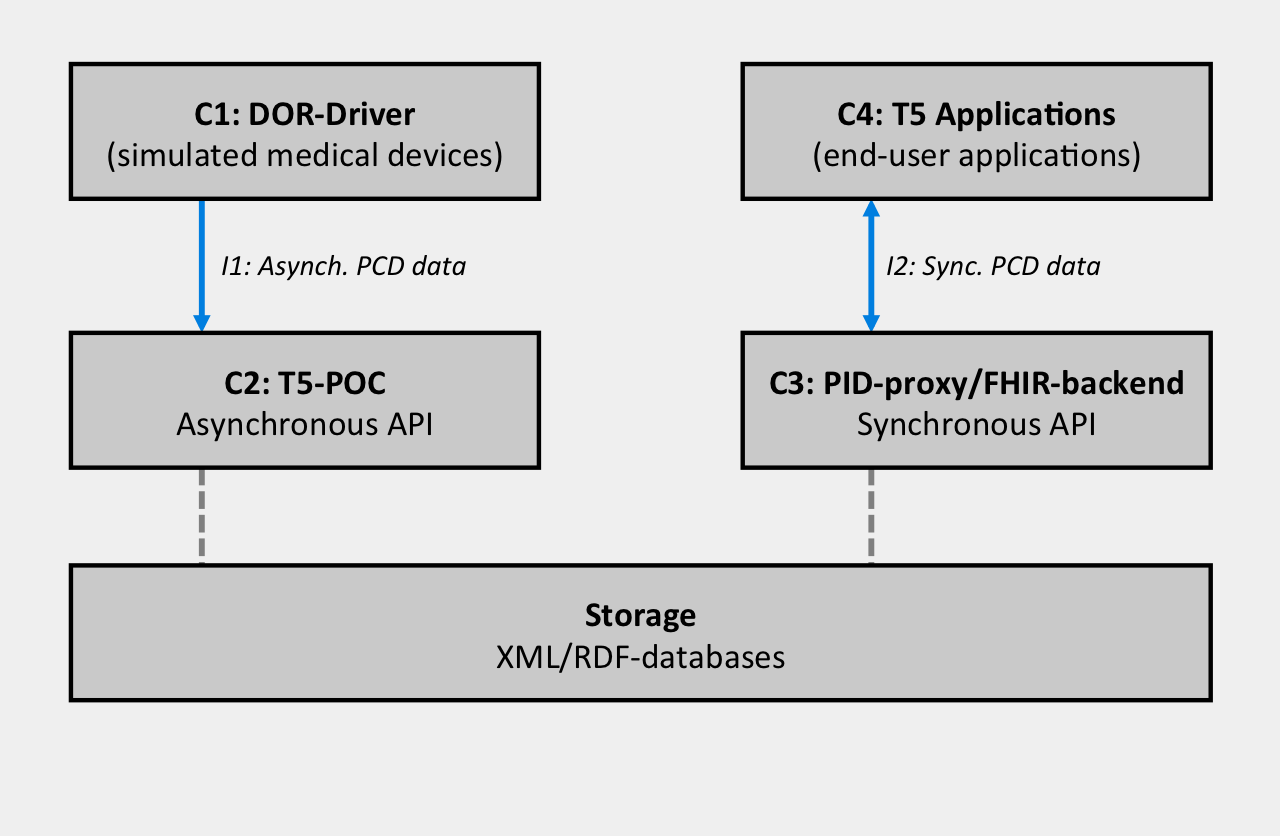
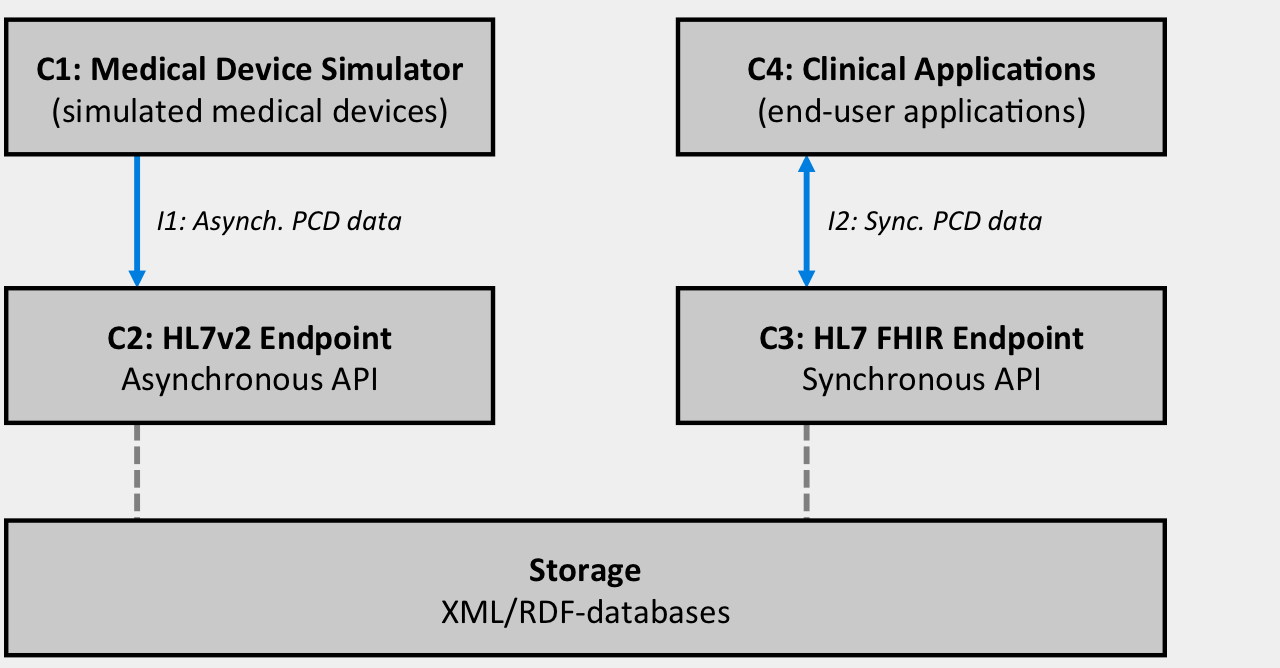
IHELAB-248 content & stylesheet updates

diff --git a/stylesheets/stylesheet.css b/stylesheets/stylesheet.css
@@ -225,7 +225,7 @@ strong {
 img {
   position: relative;
   margin: 0 auto;
-  max-width: 739px;
+  max-width: 640px;
   padding: 5px;
   margin: 10px 0 10px 0;
   border: 1px solid #ebebeb;
@@ -412,7 +412,7 @@ Full-Width Styles
 #project_title {
   margin: 0;
   color: #fff;
-  font-size: 38px;
+  font-size: 36px;
   font-weight: 700;
   text-shadow: #111 0px 0px 10px;
 }

diff --git a/_includes/header.html b/_includes/header.html
@@ -2,7 +2,7 @@
 	<header class="inner">
 		<!--<a id="forkme_banner" href="https://github.com/ihelab">View on GitHub</a>!-->
 
-		<h1 id="project_title">Karolinska PCD <br> Interopability Lab</h1>
+		<h1 id="project_title">SLL Medical Device <br> Integration Lab</h1>
 		<h2 id="project_tagline"></h2>
 		<div class="logo_wrap">
 			<div class="logo">

diff --git a/architecture/architecture.md b/architecture/architecture.md
@@ -1,12 +1,15 @@
 Overall schematic
 -----------
 
-The primary goal of the Patient Care Device (PCD) interopability lab has been to build a proof-of-concept intrastructure for vendor neutral management of PCD-data. The resulting infarstructure features a highly modular design, consisting of several software components which are interconnected using well-defined communication interfaces. Any component can be transparently replaced with commercial alternatives as they become availible on the market. 
+A major technical goal of the SLL Medical Device Integration Lab has been to build a proof-of-concept infrastructure for vendor neutral hospital-wide management of Patient Care Device (PCD) data. Capabilities of this infrastructure include:
 
+ * Continuous collection and validation of PCD-data from Medical Device Systems. 
+ * Persistent storage of collected data using a canonical data-structure. 
+ * Exposure/distribution of data to other clinical IT-systems such as a PDMS
 
- > Example: The DOR-driver can be replaced with a IHE PCD compliant patient monitoring gateway.  
+The resulting infrastructure features a highly modular design, consisting of self-contained software components which are interconnected using well-defined communication interfaces. Any component can be transparently replaced with a commercial alternative (as these become available on the market). For example, the Medical Device Simulator can be replaced with a IHE PCD compliant patient monitoring gateway. 
 
-The diagram below summarizes the most important compinents of our proof-of-concept infrastrucutre, along with the ovearall flow of Device Observation Data (as indicated by arrows). 
+The diagram below summarizes the most important components of our proof-of-concept infrastructure, along with the overall flow of Device Observation Data (as indicated by arrows). The *C2* and *C3* components (including storage) are sometimes collectively referred to as a *T5-system*. 
 
 ![Picture description](../images/architecture.png)
 
@@ -15,7 +18,7 @@ Description of integrations
 
 ### Integration #1: Asynchronous PCD data
 
-Lorem ipsum dolor sit amet, consectetuer adipiscing elit. Aenean commodo ligula eget dolor. Aenean massa. Cum sociis natoque penatibus et magnis dis parturient montes, nascetur ridiculus mus. 
+The Medical Device Integration Lab supports Medical Device integration according to the [IHE PCD Technical Framework](http://www.ihe.net/Technical_Frameworks/#pcd). Additionally, the [IHE PCD WCM trial supplement](http://www.ihe.net/Technical_Framework/upload/IHE_PCD_Suppl_WCM.pdf) is supported. Consequently, all Medical devices are expected to submit Device Observation Data in accordance with the [IHE-PCD-01 transaction](http://www.ihe.net/uploadedFiles/Documents/PCD/IHE_PCD_TF_Vol2.pdf). If a specific Medical Device does not support the IHE PCD framework, a 3rd-party adapter solution will be required. 
 
 | Item                 | Value                                                     |
 | -------------------- | -------------                                             |
@@ -26,36 +29,44 @@ Lorem ipsum dolor sit amet, consectetuer adipiscing elit. Aenean commodo ligula 
 
 ### Integration #2: Synchronous PCD data
 
-Lorem ipsum dolor sit amet, consectetuer adipiscing elit. Aenean commodo ligula eget dolor. Aenean massa. Cum sociis natoque penatibus et magnis dis parturient montes, nascetur ridiculus mus. 
+The Medical Device Integration Lab supports clinical application integration according to the [HL7 FHIR DSTU 2 integration framework](http://www.hl7.org/FHIR/2015Jan/index.html). Currently, a REST-API is provided for exchange and manipulation of FHIR-resources. The original IEEE 11073 Device Observation Data semantics are re-used whenever possible. 
 
 
 | Item                 | Value                                                     |
 | -------------------- | -------------                                             |
 | Data transfer    	   | TCP                                      			       |
-| Transaction format   | HL7 FHIR DSTU 2 (REST/Messaging)						   |
+| Transaction format   | HL7 FHIR DSTU 2 (REST)									   |
 | Semantics            | IEEE 11073                                                |
 
 
 Description of components
 -----------
 
-### C1: DOR-driver
-Lorem ipsum dolor sit amet, consectetuer adipiscing elit. Aenean commodo ligula eget dolor. Aenean massa. Cum sociis natoque penatibus et magnis dis parturient montes, nascetur ridiculus mus. 
+### C1: Medical Device Simulator
+In order to simplify testing of other components within the lab, a Medical Device Simulator has been implemented. The application simulates a Patient Monitoring Gateway implementing the IHE DEC DOR actor, including the WCM supplement. 
 
-[Project README](https://www.google.com)
+ > Related Source Code Repository: [DOR Driver](http://www.example.com).
 
-### C2: T5-POC
-Lorem ipsum dolor sit amet, consectetuer adipiscing elit. Aenean commodo ligula eget dolor. Aenean massa. Cum sociis natoque penatibus et magnis dis parturient montes, nascetur ridiculus mus. 
+### C2: HL7v2 Endpoint
+This component continuously collects, validates and stores Device Observation Data from all Medical Device Systems within the lab. It implements the IHE DEC DOC actor, including the WCM supplement, in order to achieve this. The component implemented on top of the Apache Camel integration platform. 
 
-[Project README](https://www.google.com)
+ >  Related Source Code Repository: [HL7v2 Endpoint](http://www.example.com).
 
-### C3: FHIR Backend & PID-proxy
-Lorem ipsum dolor sit amet, consectetuer adipiscing elit. Aenean commodo ligula eget dolor. Aenean massa. Cum sociis natoque penatibus et magnis dis parturient montes, nascetur ridiculus mus. 
+### C3: HL7 FHIR Endpoint
+This component exposes [HL7 FHIR DSTU 2 resources](http://www.hl7.org/FHIR/2015Jan/index.html) to clinical applications using a REST-API. Only FHIR-resources relevant to the practical scope of the lab have been implemented (such as Observation, Patient Demographics, Encounter Management etc.). 
 
+The API has been implemented as two separate API-platforms. The first platform (FHIR RAW Backend) exposes non-modified Device Observation Data. The second platform (FHIR X-reference Backend) exposes Device Observation Data which has been enriched with patient-ID/device-ID association. This backend is also used for managing these associations. 
 
-[Project README](https://www.google.com)
+ >  Related Source Code Repository: [FHIR Raw Backend](http://www.example.com).
+ 
+ >  Related Source Code Repository: [FHIR X-Reference Backend](http://www.example.com).
 
-### C4: Applications
-Lorem ipsum dolor sit amet, consectetuer adipiscing elit. Aenean commodo ligula eget dolor. Aenean massa. Cum sociis natoque penatibus et magnis dis parturient montes, nascetur ridiculus mus. 
+### C4: Clinical Applications
+Even though the implementation/evaluation of clinical applications are out-of-scope of the Medical Device Integration lab, a small set of proof-of-concept applications have been implemented. The purpose of these applications is to facilitate administration, troubleshooting and demonstration of the other components within the lab. Additionally, they serve as best-practice examples of FHIR-enabled browser applications. The following functionality is currently supported:
 
-[Project README](https://www.google.com)
+ * Admist/Discharge patients
+ * Manage patient/Device association
+ * Trouble-shooting of other components within the lab
+ * Live-data
+
+>  Related Source Code Repository: [FHIR Webapp](http://www.example.com).

diff --git a/welcome.md b/welcome.md
@@ -1,12 +1,13 @@
-The Karolinska Patient Care Device (PCD) interopability lab supports various stakeholders such as hospitals within the Stockhom City Council (SLL) with expertise within various topics regarding medical device integration. 
+# Introduction
 
-This site provides public access to all source-code produced by the PCD inteopability lab, along with basic documentation. 
+SLL Medical Device Integration Lab supports various stakeholders within the Stockholm City Council (SLL) with expertise within various topics regarding medical device integration. 
 
-### Getting started
+This site provides public access to all source-code produced by the Medical Device Integration Lab, along with basic documentation. 
 
-  1. Read through the <a href="/architecture">overall arhcitecture</a>. 
+# Getting started
+
+  1. Read through the <a href="/architecture">overall architecture</a>. 
   2. Grab the source-code at <a href="http://www.github.com/ihelab">our github</a>. 
-  3. Improve and enjoy!
 
-### Contact
+# Contact
 For general inquiries, please contact info@ihelab.com.

diff --git a/live/live.md b/live/live.md
@@ -1,10 +1,6 @@
 Live examples
 -----------
 
-### API
+Clinical Applications running with simulated data. [Live example](http://www.example.com)
 
-### FHIR Applications
-
-### MTD Validation tool
-
-
+Medical Device Data Export Interface Validation Tool [Live example](http://www.example.com)
